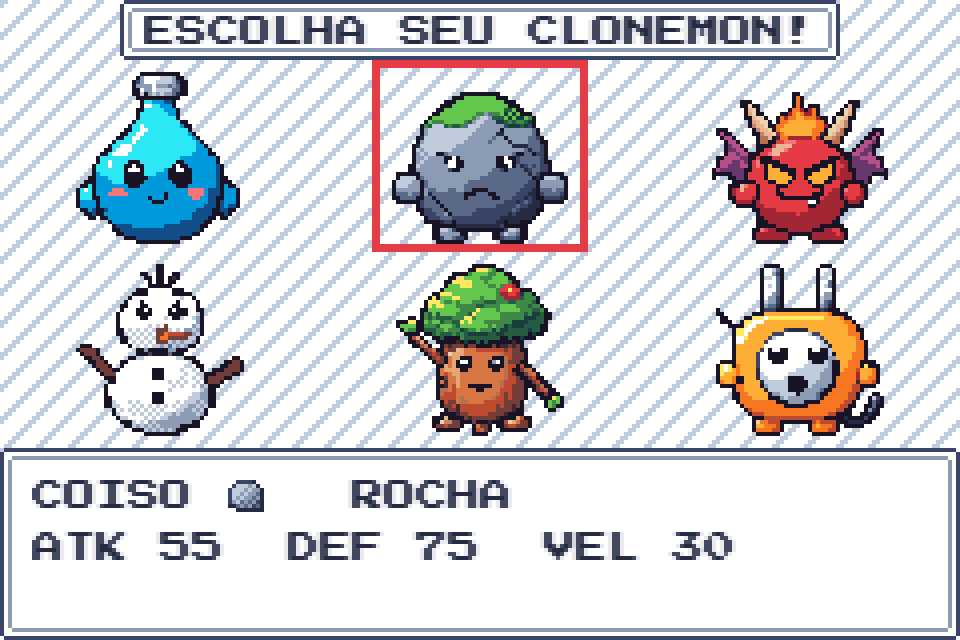
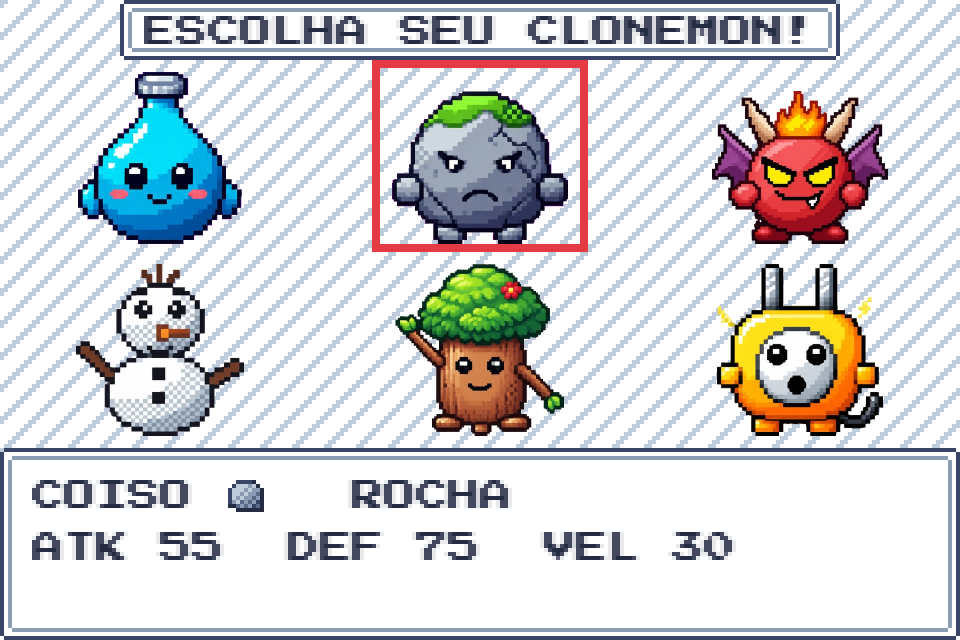
docs: show the high-resolution art in the README
Refreshes the title, starter, battle and team screenshots and
explains that battles and the title use HD art while the map and UI
stay pixel art.

diff --git a/README.md b/README.md
@@ -19,7 +19,7 @@ Turn-based battles against wild clonemons, a team of up to 6, XP and levels, and
 |---|---|
 | Backend | `Java 21`, `Spring Boot 4` (Web MVC, Data JPA, Security with JWT), `Flyway`, `PostgreSQL` |
 | Frontend | `TypeScript`, `Vite`, `Phaser 4`, Press Start 2P font |
-| Art | Pixel art in the ENDESGA 32 palette: monsters and backdrops are PNGs, the map and UI are drawn in code |
+| Art | High-resolution monsters, backdrops and title screen (WebP); map, characters and UI are pixel art drawn in code in the ENDESGA 32 palette |
 | Tests | `JUnit 5`, `AssertJ`, `Testcontainers`, `MockMvc`, `Vitest`, `Playwright` |
 
 ## 🚀 Features
@@ -129,7 +129,9 @@ cd frontend && npm run test:e2e
 
 ## 🎨 Art Pipeline
 
-The PNGs in `frontend/src/assets/` are built from high-resolution originals kept in `frontend/art-src/` (not versioned).
+The game is laid out on a 240x160 grid, but the canvas is as large as the window allows (a whole multiple of that grid). The map, the menus and the text are pixel art scaled up, while battles, the title screen and the team icons use high-resolution art that fills the real pixels.
+
+Everything in `frontend/src/assets/` is built from high-resolution originals kept in `frontend/art-src/` (not versioned). Each original yields two versions: the high-resolution one in `assets/hd/`, which the game uses, and a 48x48 pixel-art one, kept as a fallback and shown in the art gallery.
 
 ```bash
 cd frontend && npm run art:build
